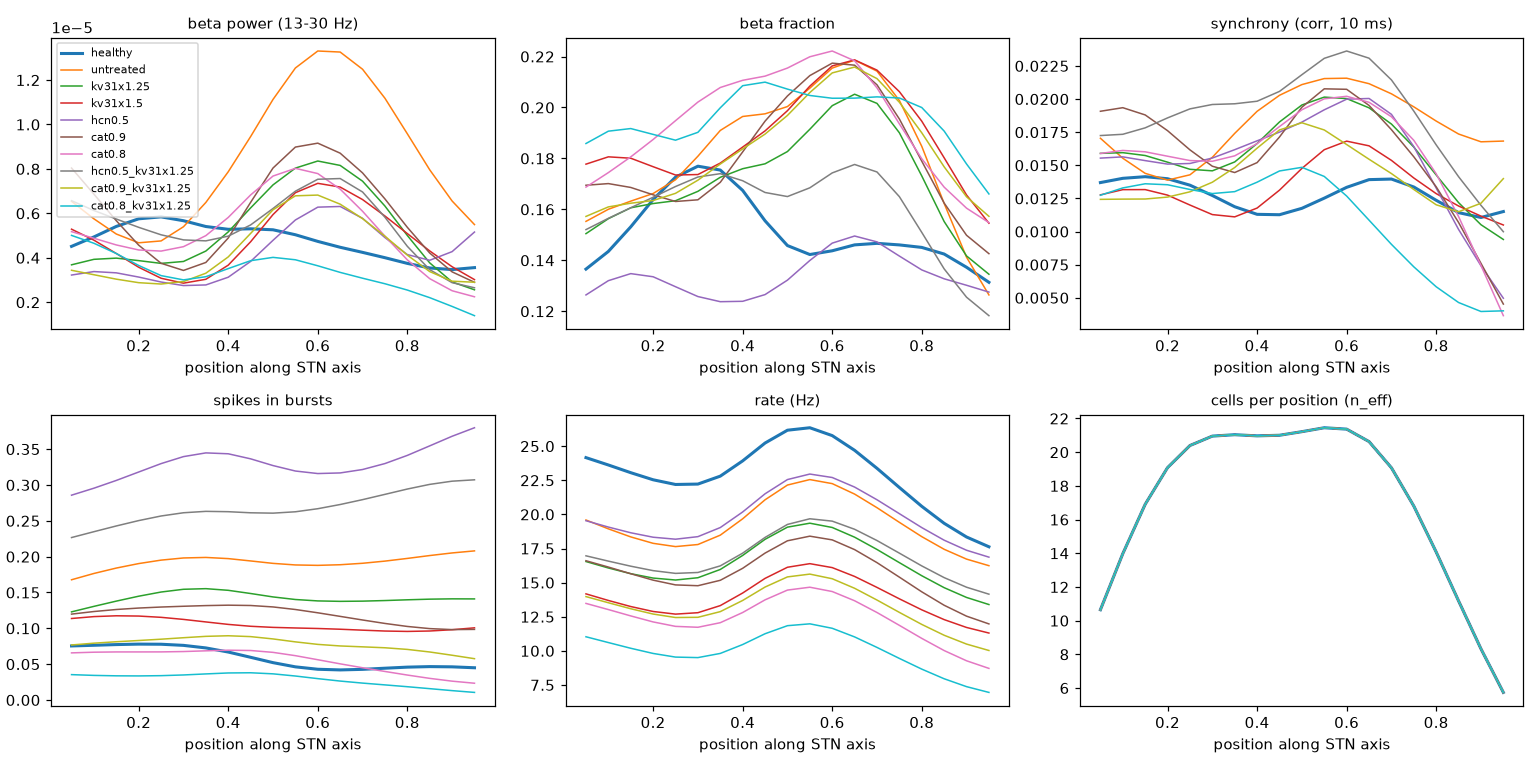
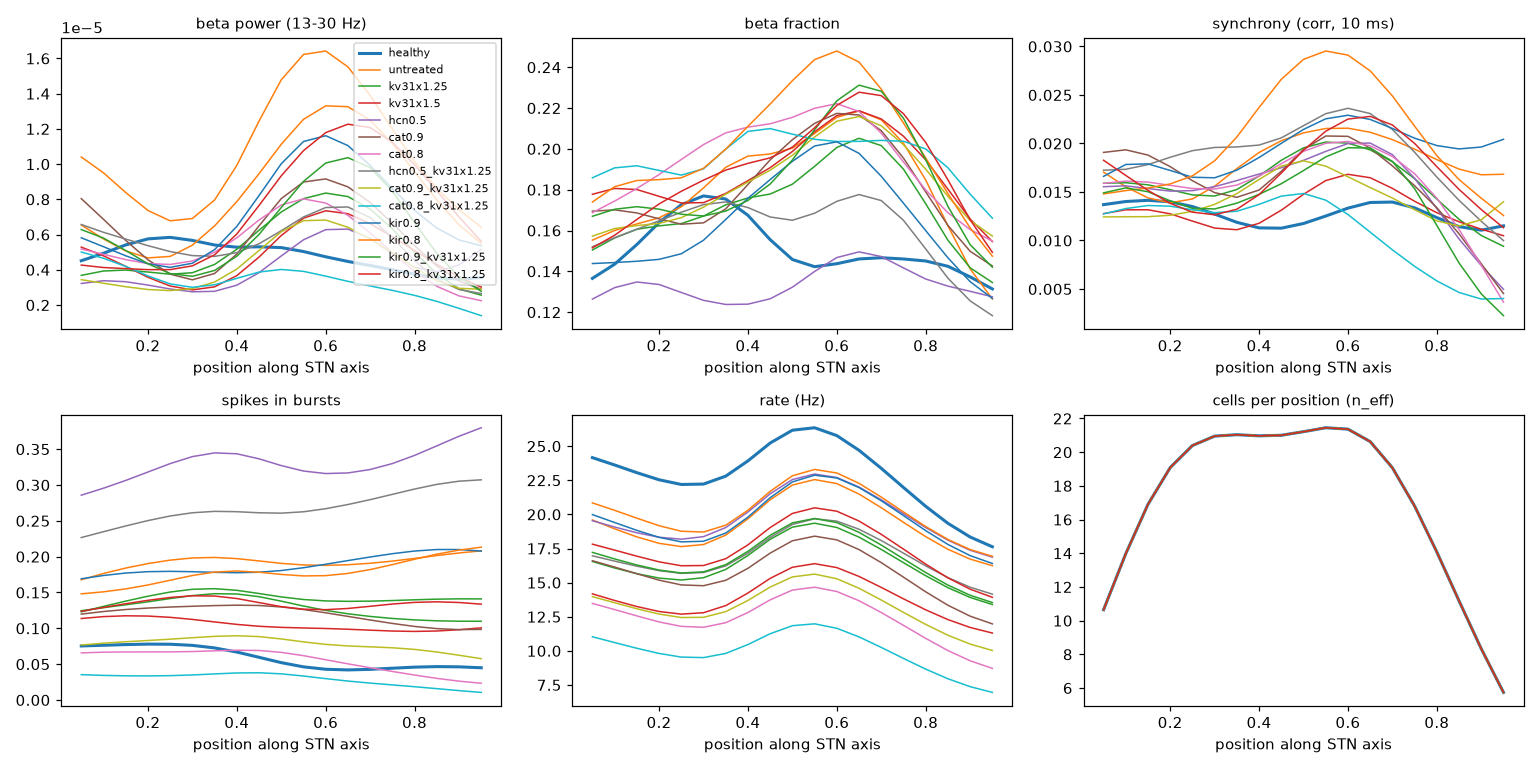
Slight Kir block alone and with Kv3.1 x1.25 (results/kv31_combos)
Claude-Session: https://claude.ai/code/session_01V1zyES4ZiM8ZqYqCwKTb3X

diff --git a/results/kv31_combos/README.md b/results/kv31_combos/README.md
@@ -33,6 +33,10 @@ scatters +-0.5 in beta power, so only differences of ~0.5 or more are meaningful
 | HCN 0.5 + Kv3.1 x1.25 | 5 | 0.92 +- 0.39 | 0.60 +- 0.13 | 0.54 | -0.12 | 0.00 | -0.45 | 29 / 14 | 0.241 | 3 / 5 |
 | CaT 0.9 + Kv3.1 x1.25 | 5 | 1.18 | 0.13 | 0.06 | 0.60 | 0.83 | 0.75 | 24 / 11 | 0.084 | 5 / 5 |
 | CaT 0.8 + Kv3.1 x1.25 | 5 | 1.53 | -0.03 | 0.21 | 0.79 | 1.33 | 1.11 | 19 / 8 | 0.037 | 1 / 5 |
+| Kir 0.9 | 5 | 0.31 | 0.35 | 0.28 | -0.06 | 0.07 | 0.10 | 34 / 16 | 0.169 | 3 / 5 |
+| Kir 0.8 | 5 | -0.45 | -0.29 | -0.28 | -0.36 | -0.47 | 0.16 | 35 / 17 | 0.161 | 4 / 5 |
+| Kir 0.9 + Kv3.1 x1.25 | 5 | 0.76 | 0.06 +- 0.55 | -0.14 | 0.57 | 0.39 | 0.47 +- 0.15 | 30 / 14 | 0.121 | 3 / 5 |
+| Kir 0.8 + Kv3.1 x1.25 | 5 | 0.30 | -0.06 +- 0.11 | -0.09 | 0.20 | 0.04 | 0.43 +- 0.16 | 31 / 14 | 0.126 | 5 / 5 |
 
 ![gap vs rate](gap_vs_rate.png)
 ![profiles](profiles.png)
@@ -59,6 +63,20 @@ scatters +-0.5 in beta power, so only differences of ~0.5 or more are meaningful
     ~28% rate drop (PV+ 24, PV- 11 Hz). The upper-middle beta peak stays in all seeds.
   - CaT 0.8 + Kv3.1 x1.25 normalizes bursting and synchrony and removes the beta peak, but halves
     the rates (19 / 8 Hz, vs healthy 38 / 20). This is suppression.
+
+- **Slight Kir block + Kv3.1 x1.25** (added 2026-10-26; Kir is equal in both types, blocked in all
+  STN cells). Kir block alone at 10-20% does nothing useful: bursting is barely changed, and at 0.8 beta
+  and synchrony get worse.
+  - Combined with Kv3.1 x1.25 it buys back part of the Kv3.1 rate cost: PV+ 30-31 / PV- 14 Hz,
+    against 29 / 13.5 Hz for Kv3.1 alone and 33.5 / 16 Hz untreated.
+  - Bursting improves slightly: 0.43-0.47 of the gap against 0.33 for Kv3.1 alone over the same
+    seeds 1-5, within the seed SD of ~0.15. These points sit a little above the burst-vs-rate trend.
+  - The Kv3.1 effect on the beta spectrum is lost: the beta-fraction gap goes from ~0.55 to ~0, and the
+    upper-middle beta fraction gets slightly worse. With Kir 0.8 the beta peak stays at the upper
+    middle in all seeds.
+  - Upper-middle synchrony is not better than with Kv3.1 alone.
+  - Net: slight Kir block makes Kv3.1 enhancement a little more rate-neutral, at the cost of its beta
+    benefit, consistent with Kir block amplifying beta (\`results/kir_block_per_type/\`).
 
 **Bottom line.** No single drug or tested pair restores all PD features in this model.
 - The burst and synchrony features follow STN excitability; the beta-spectrum feature follows HCN.
